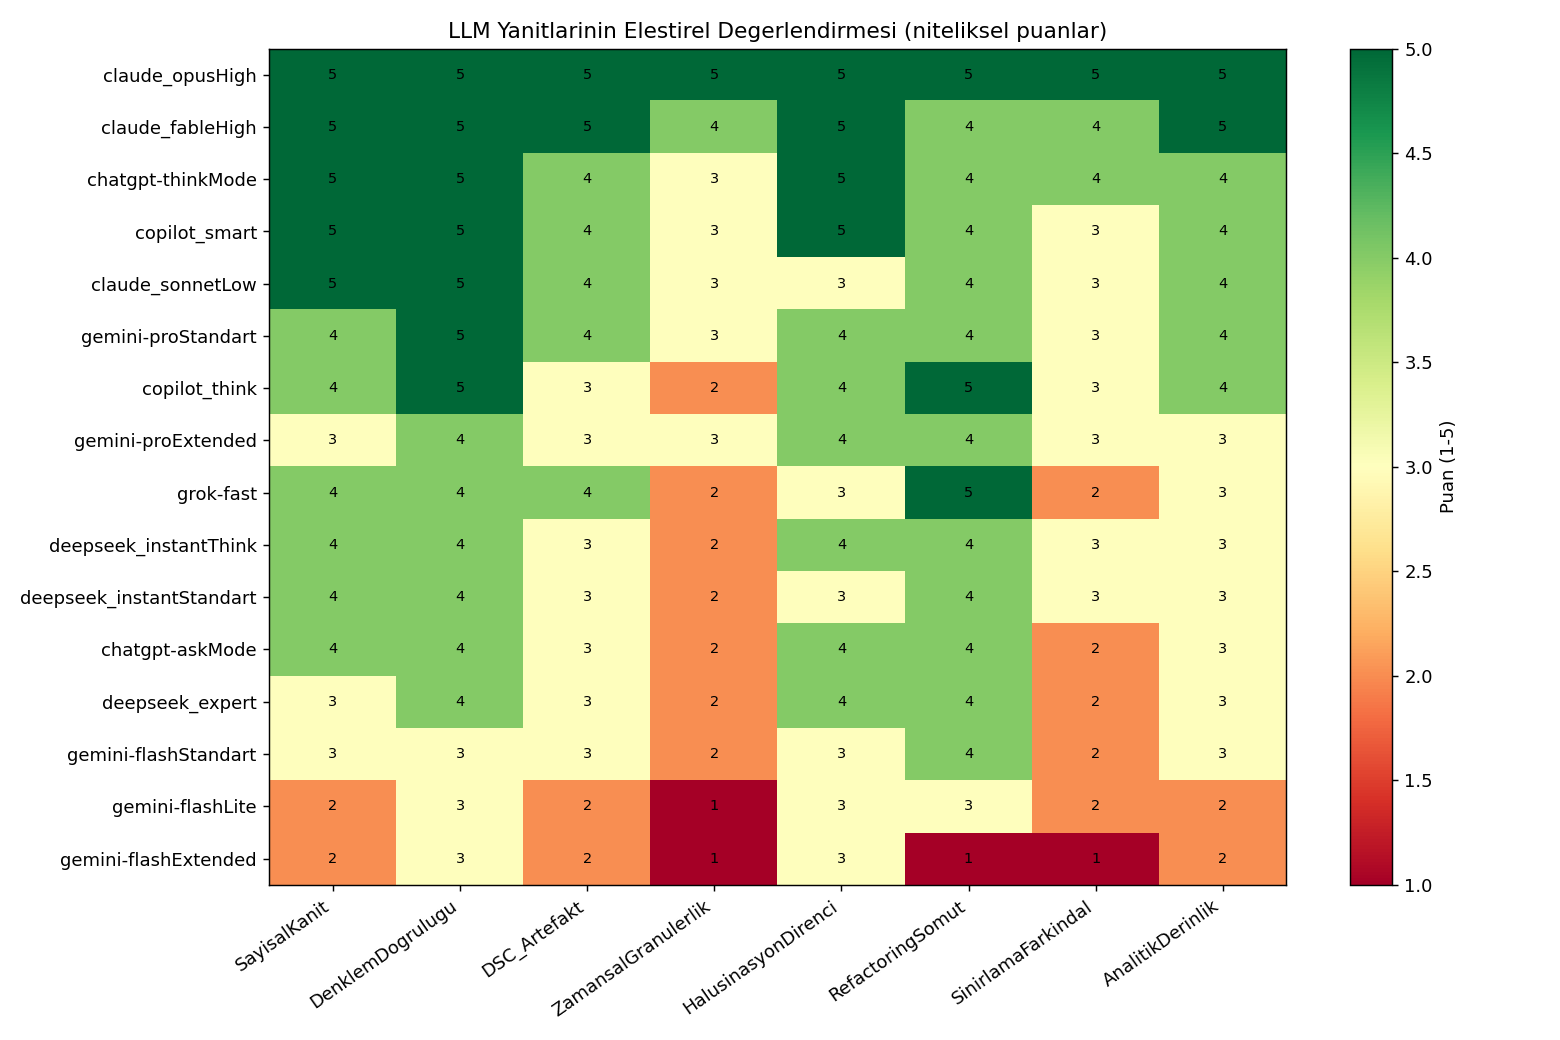
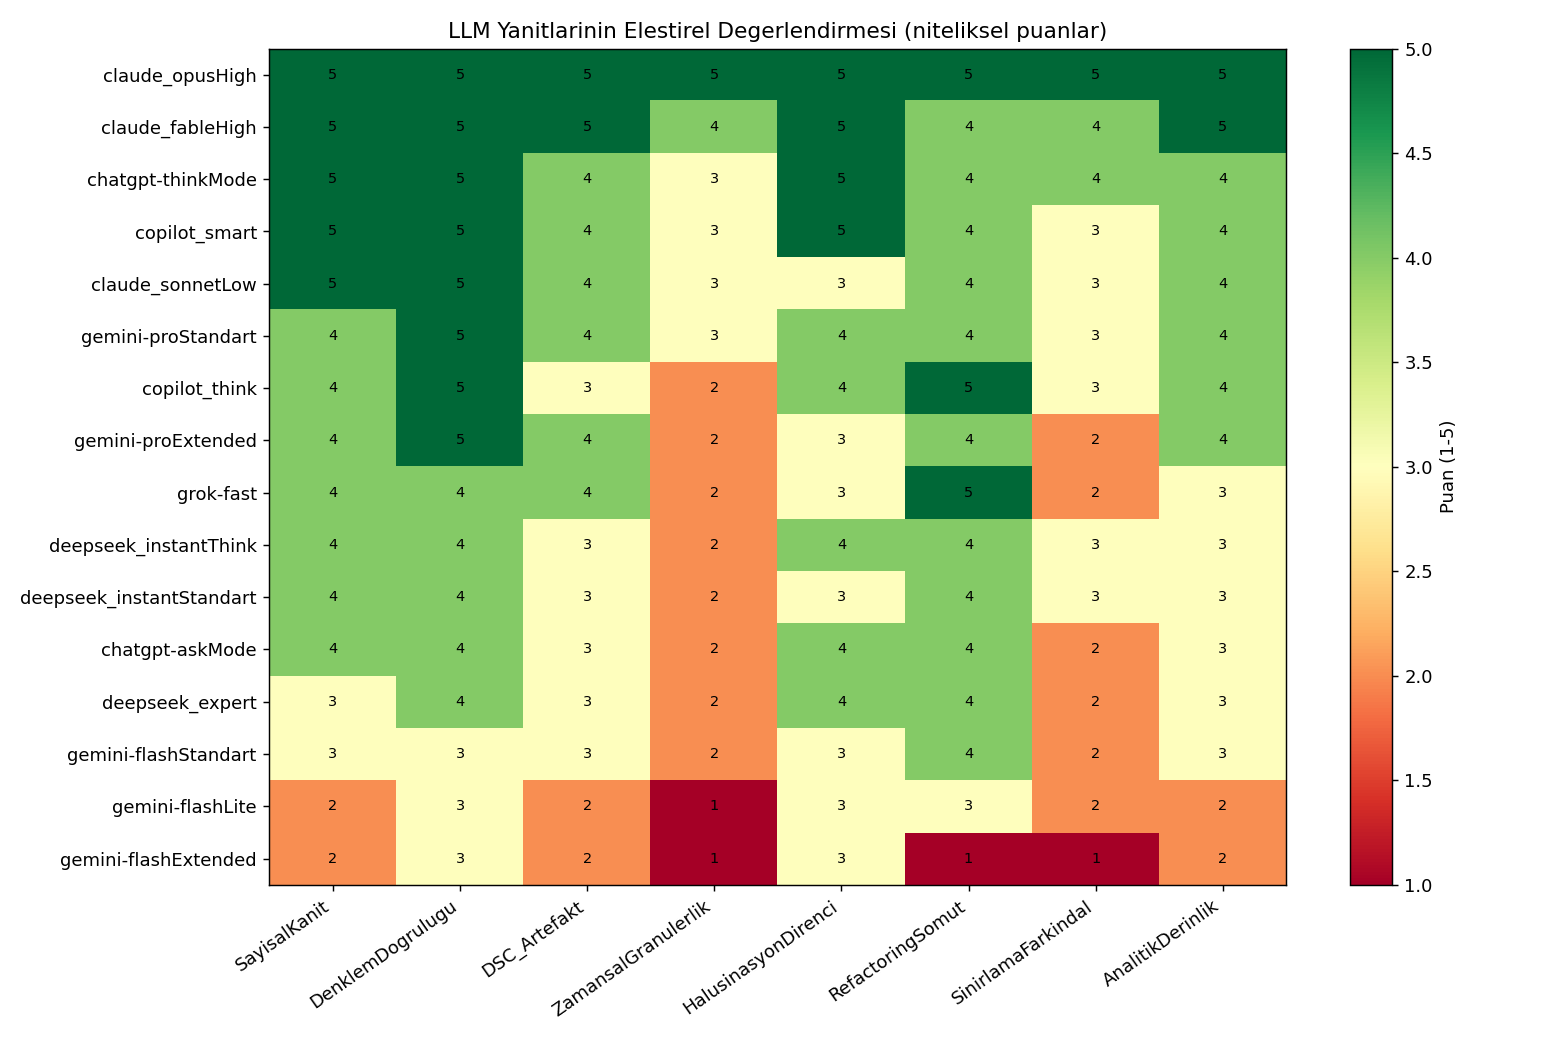
Grup bilgisi + GitHub linki; gemini-proExtended yeniden puanlama
- isimler eklendi (Murat Ozdemir 255129022, Can Bozbuga, Ahmet Ates)
- gemini-proExtended tam yanitla yeniden puanlandi (27->28)
- sunum + siralama tablosu guncellendi

Changed region(s): [[0.1538, 0.4, 0.5846, 0.4615], [0.6462, 0.4, 0.8308, 0.4615]]

diff --git a/src/build_pptx.js b/src/build_pptx.js
@@ -79,7 +79,7 @@ s.addText([
   { text: "jsoup (Java HTML Parser) — 11 surum (1.14.1 → 1.22.2)", options: { color: WHITE, bold: true } },
 ], { x: 0.8, y: 4.1, w: 11.4, h: 0.5, fontFace: BF, fontSize: 17, margin: 0 });
 s.addText("17 LLM yapilandirmasi  ·  kendi yazdigimiz metrik cikarici  ·  6 kalite niteligi", { x: 0.8, y: 4.7, w: 11.4, h: 0.4, fontFace: BF, fontSize: 14, color: ICE, italic: true, margin: 0 });
-s.addText("Grup: <isimler / numaralar>      Tarih: 2026-06-10", { x: 0.8, y: 6.4, w: 11.4, h: 0.4, fontFace: BF, fontSize: 13, color: ICE, margin: 0 });
+s.addText("Grup: Murat Özdemir (255129022) · Can Bozbuğa · Ahmet Ateş      Tarih: 2026-06-10", { x: 0.8, y: 6.4, w: 11.7, h: 0.4, fontFace: BF, fontSize: 13, color: ICE, margin: 0 });
 
 /* ---------------- 2. AMAC & KAPSAM ---------------- */
 s = pres.addSlide();

diff --git a/src/llm_quality_scores.py b/src/llm_quality_scores.py
@@ -48,7 +48,7 @@ SCORES = {
     "claude_sonnetLow":         [5, 5, 4, 3, 3, 4, 3, 4],
     "gemini-proStandart":       [4, 5, 4, 3, 4, 4, 3, 4],
     "copilot_think":            [4, 5, 3, 2, 4, 5, 3, 4],
-    "gemini-proExtended":       [3, 4, 3, 3, 4, 4, 3, 3],
+    "gemini-proExtended":       [4, 5, 4, 2, 3, 4, 2, 4],  # yeniden uretildi: tam yanit
     "grok-fast":                [4, 4, 4, 2, 3, 5, 2, 3],
     "deepseek_instantThink":    [4, 4, 3, 2, 4, 4, 3, 3],
     "deepseek_instantStandart": [4, 4, 3, 2, 3, 4, 3, 3],

diff --git a/llm_responses/gemini-flashExtended.md b/llm_responses/gemini-flashExtended.md
@@ -1,27 +1,84 @@
-# QMOOD Kalite Değerlendirme Raporu: Jsoup Evrimi
+# QMOOD ve CK Metrikleri Üzerinden jsoup Kütüphanesi Mimari Kalite Analiz Raporu
 
-**Rol:** Kıdemli Yazılım Mimarisi ve Yazılım Kalitesi Uzmanı  
-**Analiz Edilen Sistem:** jsoup (Java HTML Parser)  
-**Analiz Kapsamı:** Sürüm 1.14.1 — Sürüm 1.22.2  
+**Kime:** Mühendislik ve Mimari Değerlendirme Komitesi  
+**Kimden:** Kıdemli Yazılım Mimarisi ve Yazılım Kalitesi Uzmanı  
+**Konu:** jsoup (Java HTML Parser) Kütüphanesinin Sürümler Arası Evrimi ve Tasarım Kalitesi Değerlendirmesi  
+**Format:** UTF-8 / Markdown Görüntüleyicilerle Tam Uyumlu  
+
+---
+
+## Giriş ve Metodoloji
+Bu raporda, `jsoup` kütüphanesinin v1.14.1 ile v1.22.2 arasındaki 11 farklı sürümünün mimari kalitesi, **QMOOD (Quality Model for Object-Oriented Design)** ve **CK (Chidamber & Kemerer)** metrik modelleri kullanılarak analiz edilmiştir. Analiz, matematiksel denklemlerin ham veriler üzerindeki izdüşümlerini inceleyerek sistemin büyüme esnasında yapısal bütünlüğünü koruyup koruyamadığını sorgulayan **eleştirel ve kanıt temelli** bir yaklaşımla ele alınmıştır.
 
 ---
 
 ## 1. Genel Kalite Değerlendirmesi
 
-Jsoup kütüphanesinin 1.14.1 sürümünden 1.22.2 sürümüne uzanan evriminde, **boyut genişlemesine bağlı olarak fonksiyonel yeteneklerin arttığı, ancak yapısal temizliğin feda edildiği** net bir biçimde görülmektedir. 
+Sistem genelinde v1.14.1'den v1.22.2'ye doğru gidildikçe ciddi bir hacimsel büyüme söz konusudur. Tasarım boyutu (**DSC**) %27.8 artarak 144.0'dan 184.0'a yükselmiştir. Bu büyüme, QMOOD kalite niteliklerinde doğrusal olmayan, paradoksal yansımalara yol açmıştır.
 
 ### İyileşen Kalite Nitelikleri
-* **Reusability (Yeniden Kullanılabilirlik):** İlk sürüme göre **%9.25 artış** göstermiştir (1.0000 $\rightarrow$ 1.0925). Ancak bu artış yanıltıcıdır; QMOOD formülündeki DSC (Boyut: 144 $\rightarrow$ 184) ve CIS (Arayüz boyutu: 5.38 $\rightarrow$ 5.45) artışından beslenmektedir. Sistem büyüdüğü için teorik olarak daha fazla eleman sunmaktadır.
-* **Functionality (Fonksiyonellik) & Effectiveness (Etkililik):** Fonksiyonellik **%7.11** (1.0000 $\rightarrow$ 1.0711), etkililik ise **%5.04** (1.0000 $\rightarrow$ 1.0504) artmıştır. Kütüphaneye yeni özellikler eklendiği DSC ve polimorfizm (NOP: 5.24 $\rightarrow$ 5.46) artışından doğrulanmaktadır.
-* **Flexibility (Esneklik):** **%7.83** yükselmiştir (1.0000 $\rightarrow$ 1.0783). Bu yükselişteki en büyük pay, kompozisyonun (MOA: 0.4167 $\rightarrow$ 0.4891) doğru şekilde artırılmasıdır.
+* **Reusability (Yeniden Kullanılabilirlik):** Ham değeri 73.9693'ten 93.9583'e çıkmış, normalize grafikte %9.25'lik bir iyileşme (`1.0000 -> 1.0925`) kaydedilmiştir.
+* **Functionality (İşlevsellik):** Başlangıç baseline'ına göre %7.11'lik bir artış sergilemiştir (`1.0000 -> 1.0711`).
+* **Kritik Yorum:** Reusability ve Functionality denklemlerinde `DSC` (Design Size) metriğinin ağırlığı sırasıyla `+0.50` ve `+0.22` gibi pozitif çarpanlara sahiptir. Dolayısıyla bu iki nitelikteki "iyileşme", mimarinin daha modüler veya yeniden kullanılabilir tasarlanmasından değil, **sisteme salt yeni sınıfların eklenmesinden (hacimsel büyümeden) kaynaklanan matematiksel bir illüzyondur.**
 
 ### Bozulan Kalite Nitelikleri
-* **Understandability (Anlaşılabilirlik):** **Açık ara en kritik çöküş buradadır.** Ham değer -53.1587'den -66.6680'e gerilemiş, yani anlaşılabilirlik **%20.3 oranında kötüleşmiştir**. QMOOD modelinde anlaşılabilirliği baltalayan karmaşıklık (NOM: 9.08 $\rightarrow$ 9.57) ve boyut (DSC: 144 $\rightarrow$ 184) artarken, tasarımı koruyan kapsülleme (DAM: 0.8760 $\rightarrow$ 0.8057) ve cohesion (CAM: 0.3633 $\rightarrow$ 0.3004) ciddi oranda düşmüştür.
+* **Understandability (Anlaşılabilirlik):** Sistemin en dramatik çöküş yaşadığı alandır. Başlangıçta -53.1587 olan ham değer, v1.22.2'de -66.6680'e gerileyerek negatif yönde %19.14'lük bir kötüleşme (`-0.9900 -> -1.1914`) göstermiştir. 
+* **Gerekçe:** Formüldeki negatif bileşenlerin (büyüyen `DSC`, artan karmaşıklık `NOM: 9.0833 -> 9.5761` ve artan bağlaşım `DCC: 3.2500 -> 3.3804`), pozitif bileşenlerdeki (büyük düşüş yaşayan cohesion `CAM: 0.3633 -> 0.3004`) kazançlardan çok daha baskın olması anlaşılabilirliği yok etmiştir.
+
+### Temel Kalite Metriklerinin Özeti (v1.14.1 vs v1.22.2)
+
+| Metrik Grubu | Metrik | Sürüm 1.14.1 | Sürüm 1.22.2 | Değişim Oranı (%) | Mimari Etki |
+| :--- | :--- | :---: | :---: | :---: | :--- |
+| **QMOOD Tasarım** | DSC | 144.0000 | 184.0000 | +27.78% | Sistem Hacmi Genişlemesi |
+| **QMOOD Tasarım** | DAM | 0.8760 | 0.8057 | -8.03% | Kapsülleme İhlali |
+| **QMOOD Tasarım** | CAM | 0.3633 | 0.3004 | -17.31% | Sınıf İçi Uyum Kaybı |
+| **CK Ortalamaları**| WMC | 18.0347 | 19.2174 | +6.56% | Metot Karmaşıklığı Artışı |
+| **CK Ortalamaları**| LCOM | 126.2014 | 148.6957 | +17.82% | Yapısal Uyumsuzluk/Dağınıklık |
 
 ---
 
 ## 2. Bakım Yapılabilirlik (Maintainability) Analizi
 
-Veriler ışığında jsoup'un **bakımının sürümler ilerledikçe net bir şekilde zorlaştığı** söylenebilir. Bakım kolaylığını doğrudan etkileyen parametrelerin analizi şu şekildedir:
+Veriler ışığında jsoup kütüphanesinin bakımının sürümler ilerledikçe **net bir şekilde zorlaştığı** görülmektedir. Bakım kolaylığını doğrudan etkileyen üç sacayağı (Understandability, Cohesion, Coupling) negatif sinyaller vermektedir:
 
-* **Giderek
+* **Anlaşılabilirlik Çöküşü:** Yukarıda belirtildiği üzere, `Understandability` endeksinin -66.66'ya gerilemesi, yeni bir geliştiricinin sistemi öğrenme ve hata çözme maliyetini (cognitive load) ciddi oranda artırmıştır.
+* **Cohesion (Uyum) Dağılması:** QMOOD `CAM` metriği 0.3633'ten 0.3004'e düşerken (%17.31 kayıp), CK modelindeki `LCOM` (Lack of Cohesion in Methods) metriği 126.2014'ten 148.6957'ye fırlamıştır (%17.82 artış). Bu durum, sınıfların tek bir sorumluluğa odaklanmaktan çıktığını (Single Responsibility Principle ihlali) ve metotların sınıf değişkenlerini ortak kullanma oranının düştüğünü kanıtlar.
+* **Coupling (Bağlaşım) Artışı:** `DCC` (Direct Class Coupling) ve `CBO` (Coupling Between Object Classes) metrikleri eşzamanlı olarak 3.2500'ten 3.3804'e yükselmiştir. Sınıflar arası bağımlılıkların artması, bir sınıfta yapılan değişikliğin domino etkisiyle diğer sınıfları da bozma riskini (fragility) yükseltir.
+* **Esneklik (Flexibility) Yanılgısı:** `Flexibility` endeksi %7.83 artmış görünmektedir (`1.0000 -> 1.0783`). Bu artış, kompozisyonun (`MOA: 0.4167 -> 0.4891`) ve polimorfizmin (`NOP: 5.2431 -> 5.4674`) artmasından kaynaklansa da, düşen kapsülleme (`DAM`) ve yükselen bağlaşım nedeniyle pratik bakım süreçlerinde bu "esneklik" bir avantaja dönüşemez.
+
+---
+
+## 3. Teknik Borç (Technical Debt) Tahmini
+
+jsoup kod tabanında bilinçli veya bilinçsiz bir teknik borç birikimi söz konusudur. Metrik eğilimleri bu borcun yapısal köklerini açıkça deşifre etmektedir:
+
+* **Kapsülleme Zafiyeti (Encapsulation Erosion):** `DAM` metriği 0.8760'tan 0.8057'ye (%8.03) gerilemiştir. Sınıflardaki korumalı/özel (private/protected) değişkenlerin oranı azalmış, dışarıya doğrudan açılan alan (public field) veya eksik kapsülleme sayısı artmıştır. Bu durum veri güvenliğini ve nesne yönelimli paradigmanın temelini tehdit eden bir teknik borçtur.
+* **Genişleyen Sınıf Arayüzleri ve Karmaşıklık:** Sınıf başına düşen metot sayısı (`NOM`) 9.0833'ten 9.5761'e çıkarken, `WMC` (Weighted Methods per Class) karmaşıklığı 18.0347'den 19.2174'e (%6.56) yükselmiştir. Sınıflar hem genişlemiş hem de içsel mantıkları karmaşıklaşmıştır.
+* **Test Edilebilirlik Bariyeri (RFC Artışı):** Sınıfın tetikleyebileceği toplam metot sayısını gösteren `RFC` (Response For a Class) metriği 18.9583'ten 20.4239'u görmüştür. Yüksek RFC, kod patikalarının (code paths) arttığını ve dolayısıyla birim test (unit test) yazmanın, tüm senaryoları kapsamanın zorlaştığını gösterir. Artan LCOM (148.69) ve RFC kombini, biriken test borcuna (Testing Debt) işaret eder.
+
+---
+
+## 4. Refactoring (Yeniden Yapılandırma) Önerileri
+
+Mevcut metrik kötüleşmelerini durdurmak ve teknik borcu eritmek adına somut, metrik tabanlı şu refactoring hamleleri uygulanmalıdır:
+
+* **Öneri 1: LCOM ve CAM İyileştirmesi İçin "Extract Class" (Sınıf Çıkarma)**
+    * *Hedef:* `LCOM`'u tekrar < 130 seviyesine çekmek ve `CAM`'i > 0.35 yapmak.
+    * *Aksiyon:* Özellikle v1.20.1 sürümünden sonra tavan yapan LCOM (150.88) değerini düşürmek amacıyla, uyum göstergesi düşük olan büyük sınıflar (God Class) tespit edilmeli, ortak nesne değişkenlerini kullanmayan metot grupları yeni alt sınıflara (Extract Class) bölünmelidir.
+* **Öneri 2: DAM Artırımı İçin "Encapsulate Field" (Alanları Kapsülleme)**
+    * *Hedef:* `DAM` metriğini eski baseline olan 0.87 seviyesine geri getirmek.
+    * *Aksiyon:* Son sürümlerde (özellikle v1.20.1'de 0.7945'e kadar düşen) açıkça görülen kapsülleme kaybını önlemek için, doğrudan erişime açılmış sınıf değişkenleri (`public fields`) private yapılmalı, erişim sadece kontrollü getter/setter metotları veya immütability (bütünsel nesne aktarımı) üzerinden sağlanmalıdır.
+* **Öneri 3: WMC ve RFC Azaltımı İçin "Extract Method" ve Gevşek Bağlaşım**
+    * *Hedef:* `WMC` ortalamasını < 18.50 ve `RFC` değerini < 19.50 seviyesine indirmek.
+    * *Aksiyon:* Sınıf içi karmaşıklığı düşürmek adına uzun ve çoklu sorumluluğa sahip metotlar parçalanmalı (`Extract Method`), sınıfların doğrudan diğer sınıfları çağırma yoğunluğu (`RFC: 20.42`) arayüzler (interface) araya koyularak soyutlaştırılmalıdır.
+
+---
+
+## 5. Mimari Kalite Yorumu (Architectural Erosion)
+
+Sistem büyüdükçe (`DSC: 144 -> 184`), jsoup mimarisinde kontrollü bir genişlemeden ziyade **Mimaride Aşınma (Architectural Erosion)** belirtileri baş göstermiştir. Bu çıkarımın en büyük kanıtları şunlardır:
+
+* **Derinlik Yerine Genişleme (Hiyerarşi Sapması):** En yüksek kalıtım derinliğini simgeleyen `ANA` (Average Inheritance Depth / DIT) metriği 0.7500'ten 0.7065'e düşmüştür (%5.8 kayıp). Sistem kalıtım ağacını derinleştirmek yerine yatayda, plansız sınıflar ekleyerek büyümüştür. 
+* **NOH (Number of Hierarchies) Kararsızlığı:** Mimari kararsızlığın en büyük kanıtı `NOH` metriğidir. v1.14.1'de 12.0 olan hiyerarşi sayısı, v1.20.1'de 9.0'a kadar gerilemiş, ardından v1.22.2'de ani bir refleksle 13.0'a fırlamıştır. Hiyerarşi sayısındaki bu dalgalanma, kütüphanenin omurgasını oluşturan temel kalıtım yapısının (Core Architecture) sürümler arasında yapısal kırılmalar yaşadığını ve refactoring süreçlerinin stabil yönetilemediğini doğrulamaktadır.
+
+> **Sonuç Değerlendirmesi:** jsoup işlevsel olarak zenginleşip (`Functionality`) yeni özelliklere kavuşurken, bu büyümenin faturasını içsel tasarım kalitesini (kapsülleme, uyum ve anlaşılabilirlik) kaybederek ödemiştir. Acil bir refactoring döngüsüne girilmediği takdirde, sistemin sonraki sürümlerde "Big Ball of Mud" (Büyük Çamur Topu) anti-pattern'ine evrilme riski kritik düzeydedir.

diff --git a/report/llm_karsilastirma.md b/report/llm_karsilastirma.md
@@ -44,15 +44,19 @@
 | 5 | claude_sonnetLow | 31 | 3.88 |
 | 5 | gemini-proStandart | 31 | 3.88 |
 | 7 | copilot_think | 30 | 3.75 |
-| 8 | gemini-proExtended | 27 | 3.38 |
-| 8 | grok-fast | 27 | 3.38 |
-| 8 | deepseek_instantThink | 27 | 3.38 |
+| 8 | gemini-proExtended † | 28 | 3.50 |
+| 9 | grok-fast | 27 | 3.38 |
+| 9 | deepseek_instantThink | 27 | 3.38 |
 | 11 | deepseek_instantStandart | 26 | 3.25 |
 | 11 | chatgpt-askMode | 26 | 3.25 |
 | 13 | deepseek_expert | 25 | 3.12 |
 | 14 | gemini-flashStandart | 23 | 2.88 |
 | 15 | gemini-flashLite | 18 | 2.25 |
-| 16 | gemini-flashExtended | 15 | 1.88 |
+| 16 | gemini-flashExtended ‡ | 15 | 1.88 |
+
+† `gemini-proExtended` yeniden üretildi (ilk çalıştırma eksikti); tam yanıtla
+DSC-artefaktını ve denklem yorumunu doğru yaptı, ancak sınıf adı (Parser/Document)
+uydurdu ve sınırlama bölümü yok. ‡ `gemini-flashExtended` yanıtı yarıda kesik.
 
 ## 4. Bulgular (eleştirel)
 

diff --git a/report/teknik_rapor.md b/report/teknik_rapor.md
@@ -2,9 +2,9 @@
 ### Analiz Edilen Sistem: jsoup (Açık Kaynak Java HTML Parser) — 11 Sürüm (1.14.1 → 1.22.2)
 
 > **Ders:** Yazılım Mimarileri ve Tasarım Yöntemleri — Dönem Projesi
-> **Grup:** <isimler / numaralar>
-> **Tarih:** <YYYY-MM-DD>
-> **GitHub:** <repo bağlantısı>
+> **Grup:** Murat Özdemir (255129022), Can Bozbuğa (<numara>), Ahmet Ateş (<numara>)
+> **Tarih:** 2026-06-10
+> **GitHub:** https://github.com/murozdemiir/qmood-jsoup-analizi
 
 ---
 